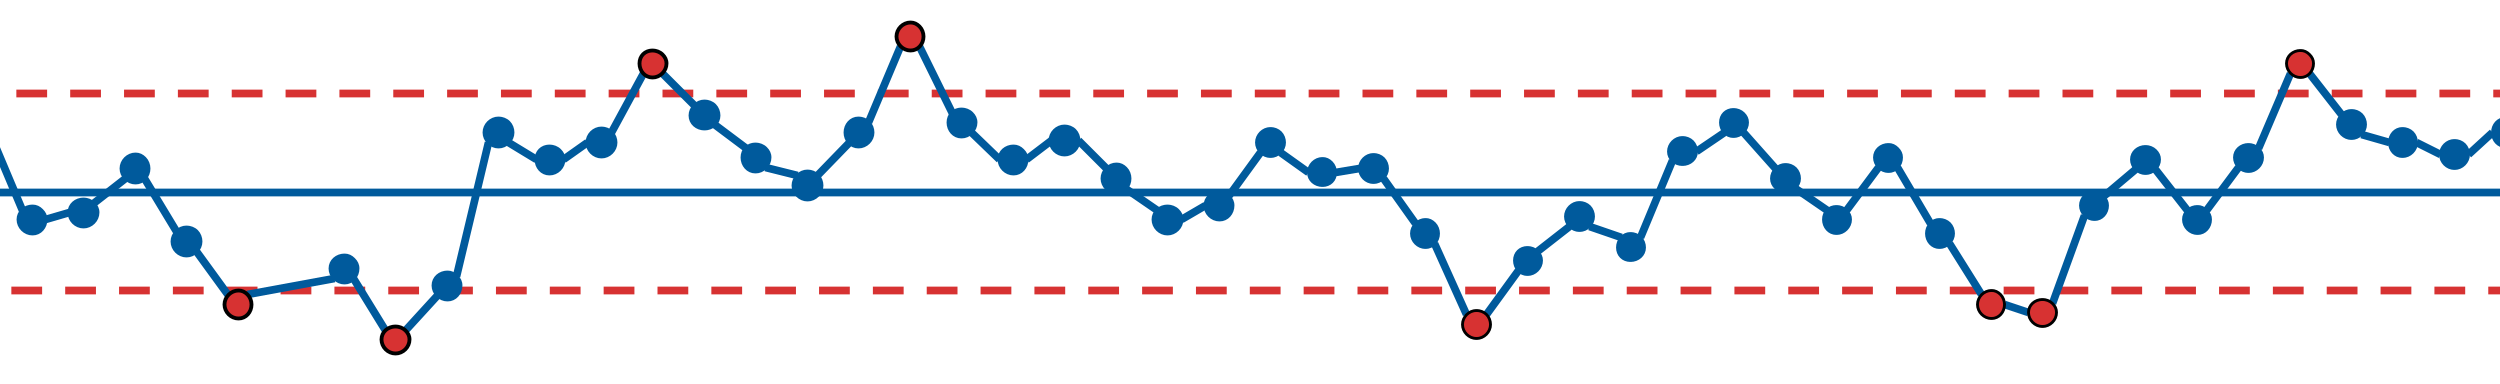
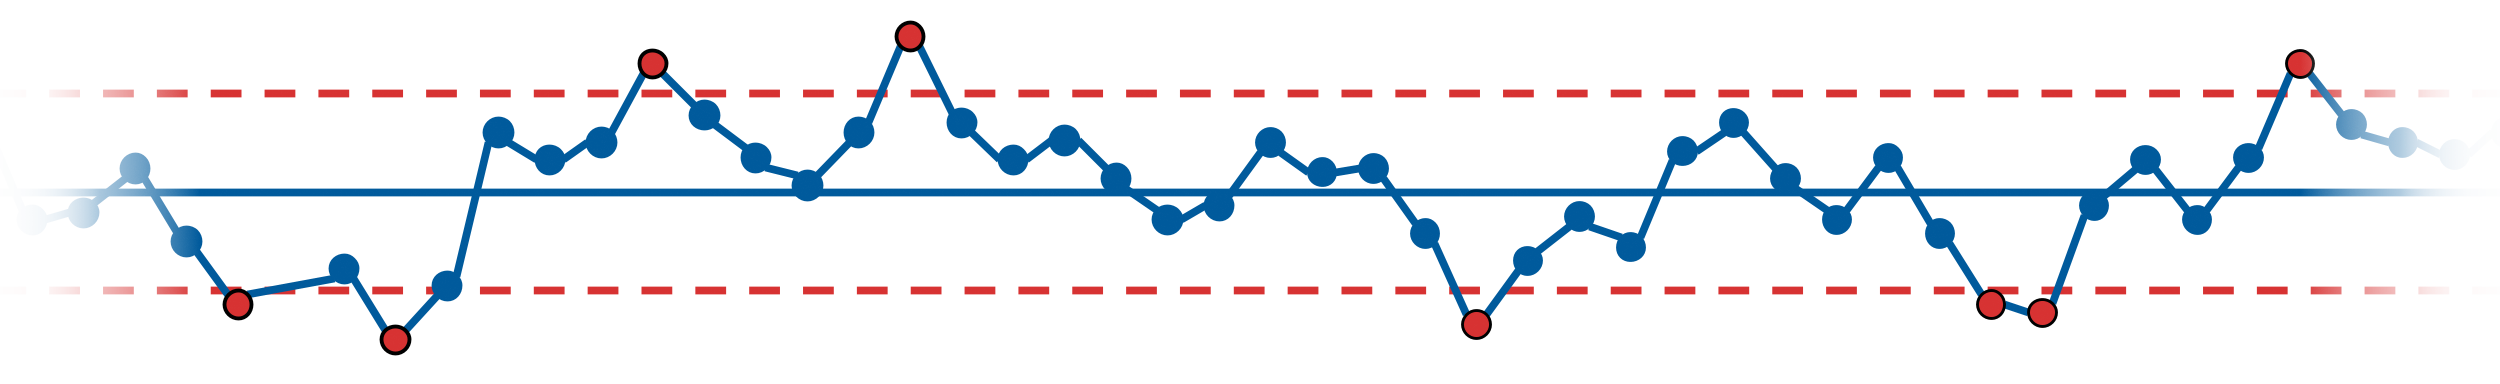
Update site content

diff --git a/public/python-lib/index.html b/public/python-lib/index.html
@@ -37,19 +37,7 @@
     <p>
       <em>process_improvement.py</em> is a Python library that serves as a free alternative to paid tools like Excel, Minitab, and JMP. Assuming a rudimentary knowledge of the Python programming language, the library simplifies the task of performing calculations and generating the figures that are essential for understanding variation, reducing costs, and improving quality.
     </p>
-    <p>
-      Although the primary tool of the library is the XmR chart, the most useful type of process behavior chart, it also generates capability histograms, combo charts, trended X charts, limit charts, and a grid of X charts providing a system-level view of a process called network analysis.
-    </p>
-    <div class="book-cta">
-      <a href="https://github.com/jimlehner/process-improvement/tree/main"
-         class="btn btn-primary"
-         target="_blank"
-         rel="noopener">
-         Click here to learn more!
-      </a>
-    </div>
-  </div>
-  <div class="carousel python-carousel"
+    <div class="carousel python-carousel"
      data-images="/images/python-lib/combo_chart.png,
                   /images/python-lib/capability_histogram.png,
                   /images/python-lib/limit_chart.png,
@@ -67,6 +55,39 @@ alt="Python carousel"></p>
     <button class="next-btn">→</button>
   </div>
 </div>
+    <p>
+      Although the primary tool of the library is the XmR chart, the most useful type of process behavior chart, it also generates capability histograms, combo charts, trended X charts, limit charts, and a grid of X charts providing a system-level view of a process called network analysis.   
+    </p>
+    <div class="book-cta">
+      <a href="https://github.com/jimlehner/process-improvement/tree/main"
+         class="btn btn-primary"
+         target="_blank"
+         rel="noopener">
+         Click here to learn more!
+      </a>
+    </div>
+  </div>
+  <!-- <div class="carousel python-carousel"
+     data-images="/images/python-lib/combo_chart.png,
+                  /images/python-lib/capability_histogram.png,
+                  /images/python-lib/limit_chart.png,
+                  /images/python-lib/limit_chart_NA.png,
+                  /images/python-lib/network_analysis.png,
+                  /images/python-lib/taguchi_loss_function.png,
+                  /images/python-lib/trended_x_chart.png,
+                  /images/python-lib/xmr_chart.png,
+                  /images/python-lib/xmr_comparison.png">
+
+  <img class="carousel-image"
+       src="/images/python-lib/combo_chart.png"
+       alt="Python carousel">
+
+  <div class="carousel-controls">
+    <button class="prev-btn">←</button>
+    <button class="next-btn">→</button>
+  </div>
+
+</div> -->
 </div>
         </div>
     </article>

diff --git a/assets/sass/_layout.scss b/assets/sass/_layout.scss
@@ -3,8 +3,8 @@
    ========================= */
 
 .container {
-  width: 90%;
-  max-width: 1300px;
+  width: 100%;
+  max-width: 1500px;
   margin: 0 auto;
 }
 
@@ -13,19 +13,20 @@
    ========================= */
 
 .navbar {
+  max-width: none;
+  width: 100%;
   border-bottom: 1px solid var(--border);
-  padding: 1rem 0;
   background: var(--background);
 }
 
 .nav-container {
-  width: 95%;
-  max-width: 1500px;
+  width: 100%;
   margin: 0 auto;
 
   display: flex;
   justify-content: space-between;
   align-items: center;
+  padding: 1rem 2rem;
 }
 
 .logo {

diff --git a/assets/sass/pages/_bqi.scss b/assets/sass/pages/_bqi.scss
@@ -1,6 +1,8 @@
 .bqi-layout {
   display: flex;
-  gap: 2rem;
+  gap: 1rem;
+  flex-wrap: nowrap;
+  align-items: flex-start;
 }
 
 .bqi-text {
@@ -8,7 +10,7 @@
 }
 
 .bqi-carousel {
-  width: 700px;
+  width: 665px;
   flex-shrink: 0;
   margin: 0 auto;
 }

diff --git a/assets/sass/pages/_home.scss b/assets/sass/pages/_home.scss
@@ -1,4 +1,8 @@
 .hero {
+  min-height: 75vh;
+  display: flex;
+  flex-direction: column;
+  justify-content: center;
   padding: 1rem 0;
   text-align: center;
 }

diff --git a/assets/sass/pages/_python.scss b/assets/sass/pages/_python.scss
@@ -9,8 +9,8 @@
 
 .python-carousel img {
   width: 100%;
-  height: 290px;
-  object-fit: cover;
+  height: 400px;
+  object-fit: contain;
   border-radius: 8px;
 }
 

diff --git a/assets/sass/_base.scss b/assets/sass/_base.scss
@@ -4,10 +4,12 @@
 
 html, body {
   height: 100%;
+  margin: 0;
 }
 
 body {
   min-height: 100vh;
+  display: flex;
   margin: 0;
   font-family: system-ui, sans-serif;
   color: var(--text);

diff --git a/public/sass/main.min.css b/public/sass/main.min.css
@@ -1,1 +1,1 @@
-:root{--background:#ffffff;--text:#1f2937;--text-muted:#6b7280;--primary:#005a9c;--primary-hover:#00467a;--secondary:#0f766e;--secondary-hover:#115e59;--accent:#d97706;--border:#e5e7eb}*{box-sizing:border-box}html,body{height:100%}body{min-height:100vh;margin:0;font-family:system-ui,sans-serif;color:var(--text);background:var(--background);line-height:1.6;background-image:linear-gradient(to right,rgba(0,90,156,5%) 1px,transparent 1px),linear-gradient(to bottom,rgba(0,90,156,5%) 1px,transparent 1px);background-size:40px 40px}h1{margin-bottom:.1em}h2{margin-top:-1rem;margin-bottom:.5rem}.container{width:90%;max-width:1300px;margin:0 auto}.navbar{border-bottom:1px solid var(--border);padding:1rem 0;background:var(--background)}.nav-container{width:95%;max-width:1500px;margin:0 auto;display:flex;justify-content:space-between;align-items:center}.logo{font-weight:700;text-decoration:none;color:var(--primary);font-size:1.5rem}.nav-links{list-style:none;display:flex;gap:1rem;margin:0;padding:0;font-size:1.2rem}.nav-links a{text-decoration:none;color:var(--text)}.nav-links a:hover{color:var(--primary)}nav ul{list-style:none;margin:0;padding:0;display:flex;gap:1rem}nav li{display:inline}.footer{border-top:1px solid var(--border);padding:.05rem 0;margin-top:auto;text-align:center;color:var(--text-muted);font-size:.9rem;background:var(--background);position:relative;z-index:10}.btn{padding:.9rem 1.4rem;text-decoration:none;border-radius:8px;font-weight:600}.btn-primary{background:var(--primary);color:#fff}.btn-primary:hover{background:var(--primary-hover)}.btn-secondary{border:2px solid var(--primary);color:var(--primary)}.btn-outline{display:inline-block;padding:.5rem 1.2rem;border:2px solid var(--primary);color:var(--primary);border-radius:6px;transition:all .2s ease}.btn-outline:hover{background:var(--primary);color:#fff}.carousel-controls button{padding:.4rem 5rem;border:#000;background:#eee;cursor:pointer;border-radius:4px}.carousel-controls{display:flex;justify-content:center;gap:1rem;margin-top:.75rem;border:#000}.carousel-controls button:hover{background:#ddd}.carousel-image-container{position:relative}.carousel-caption{position:absolute;bottom:0;left:0;right:0;background:rgba(0,0,0,.75);color:#fff;padding:.75rem;text-align:center;opacity:0;transition:opacity .3s ease}.carousel-image-container:hover .carousel-caption{opacity:1}.social-icons{display:flex;justify-content:center;gap:1.2rem;margin-top:.8rem}.social-icons a{font-size:2.6rem;color:var(--primary);text-decoration:none;transition:color .2s ease}.social-icons a:hover{color:#07f}.about-page .social-icons{justify-content:flex-start}.hero{padding:1rem 0;text-align:center}.hero h1{color:var(--primary)}.hero-image{width:250px;height:250px;object-fit:cover;border-radius:50%;display:block;margin:0 auto 1rem}.hero-buttons{display:flex;justify-content:center;gap:1rem;flex-wrap:wrap}.subtitle{max-width:700px;margin:0 auto 2rem;color:var(--text-muted)}body{min-height:100vh;display:flex;flex-direction:column}.page-wrapper{flex:1}.hero-image-wrapper{position:relative;width:100vw;height:250px;margin:0 auto 1rem}.hero-bg{position:absolute;inset:0;width:100%;height:100%;object-fit:contain;object-position:center;z-index:1;opacity:.75}.hero-image{position:relative;z-index:2;width:250px;height:250px;border-radius:50%;object-fit:cover}.book-hero{display:flex;align-items:center;justify-content:space-between;gap:3rem;margin:3rem 0}.book-layout{display:grid;grid-template-columns:1fr 320px;gap:3rem;margin-top:2rem}.book-cover{max-width:300px;width:100%;height:auto}.book-body p{margin-top:0}@media(max-width:768px){.book-layout{display:flex;flex-direction:column;align-items:center}.book-image{order:-1;display:flex;justify-content:center;width:100%}.book-cover{max-width:280px;display:block;margin:0 auto}}.book-cta{margin-top:1.75rem;margin-bottom:1.5rem}.about-layout{display:flex;gap:2rem}.circle-image{width:350px;height:350px;border-radius:50%;object-fit:cover;float:left}.about-image{flex:0 0 350px;display:flex;justify-content:center}.about-text{flex:1}.improvements-image{width:100%;max-width:700px;height:auto;display:block;margin:0 auto;border-radius:8px}html,body{height:100%}@media(max-width:768px){.about-layout{flex-direction:column;align-items:center}.about-image{order:-1;width:100%;display:flex;justify-content:center}.circle-image{float:none;display:block;margin:0 auto 1rem;margin-bottom:-2rem}.about-text{text-align:left;width:100%}}.python-layout{display:flex;gap:2rem}.python-text{flex:1}.python-carousel img{width:100%;height:290px;object-fit:cover;border-radius:8px}.carousel-controls{display:flex;justify-content:center;gap:1rem}@media(max-width:768px){.python-layout{flex-direction:column;align-items:center}.python-text{width:100%}.python-carousel{order:-1;width:100%;display:flex;flex-direction:column;align-items:center}.python-carousel img{width:100%;max-width:600px}}.bqi-layout{display:flex;gap:2rem}.bqi-text{flex:1}.bqi-carousel{width:700px;flex-shrink:0;margin:0 auto}.bqi-carousel img{width:100%;object-fit:contain;border-radius:8px}@media(max-width:768px){.bqi-layout{flex-direction:column;align-items:center}.bqi-text{width:100%}.bqi-carousel{order:-1;width:100%;display:flex;flex-direction:column;align-items:center;margin-top:1rem}.bqi-carousel img{width:100%;max-width:600px}}
+:root{--background:#ffffff;--text:#1f2937;--text-muted:#6b7280;--primary:#005a9c;--primary-hover:#00467a;--secondary:#0f766e;--secondary-hover:#115e59;--accent:#d97706;--border:#e5e7eb}*{box-sizing:border-box}html,body{height:100%;margin:0}body{min-height:100vh;display:flex;margin:0;font-family:system-ui,sans-serif;color:var(--text);background:var(--background);line-height:1.6;background-image:linear-gradient(to right,rgba(0,90,156,5%) 1px,transparent 1px),linear-gradient(to bottom,rgba(0,90,156,5%) 1px,transparent 1px);background-size:40px 40px}h1{margin-bottom:.1em}h2{margin-top:-1rem;margin-bottom:.5rem}.container{width:100%;max-width:1500px;margin:0 auto}.navbar{max-width:none;width:100%;border-bottom:1px solid var(--border);background:var(--background)}.nav-container{width:100%;margin:0 auto;display:flex;justify-content:space-between;align-items:center;padding:1rem 2rem}.logo{font-weight:700;text-decoration:none;color:var(--primary);font-size:1.5rem}.nav-links{list-style:none;display:flex;gap:1rem;margin:0;padding:0;font-size:1.2rem}.nav-links a{text-decoration:none;color:var(--text)}.nav-links a:hover{color:var(--primary)}nav ul{list-style:none;margin:0;padding:0;display:flex;gap:1rem}nav li{display:inline}.footer{border-top:1px solid var(--border);padding:.05rem 0;margin-top:auto;text-align:center;color:var(--text-muted);font-size:.9rem;background:var(--background);position:relative;z-index:10}.btn{padding:.9rem 1.4rem;text-decoration:none;border-radius:8px;font-weight:600}.btn-primary{background:var(--primary);color:#fff}.btn-primary:hover{background:var(--primary-hover)}.btn-secondary{border:2px solid var(--primary);color:var(--primary)}.btn-outline{display:inline-block;padding:.5rem 1.2rem;border:2px solid var(--primary);color:var(--primary);border-radius:6px;transition:all .2s ease}.btn-outline:hover{background:var(--primary);color:#fff}.carousel-controls button{padding:.4rem 5rem;border:#000;background:#eee;cursor:pointer;border-radius:4px;border:1px solid #000}.carousel-controls{display:flex;justify-content:center;gap:1rem;margin-top:.75rem;border:#000}.carousel-controls button:hover{background:#ddd}.carousel-image-container{position:relative}.carousel-caption{position:absolute;bottom:0;left:0;right:0;background:rgba(0,0,0,.75);color:#fff;padding:.75rem;text-align:center;opacity:0;transition:opacity .3s ease}.carousel-image-container:hover .carousel-caption{opacity:1}.social-icons{display:flex;justify-content:center;gap:1.2rem;margin-top:.8rem}.social-icons a{font-size:2.6rem;color:var(--primary);text-decoration:none;transition:color .2s ease}.social-icons a:hover{color:#07f}.about-page .social-icons{justify-content:flex-start}.hero{min-height:75vh;display:flex;flex-direction:column;justify-content:center;padding:1rem 0;text-align:center}.hero h1{color:var(--primary)}.hero-image{width:250px;height:250px;object-fit:cover;border-radius:50%;display:block;margin:0 auto 1rem}.hero-buttons{display:flex;justify-content:center;gap:1rem;flex-wrap:wrap}.subtitle{max-width:700px;margin:0 auto 2rem;color:var(--text-muted)}body{min-height:100vh;display:flex;flex-direction:column}.page-wrapper{flex:1}.hero-image-wrapper{position:relative;width:100vw;height:250px;margin:0 auto 1rem}.hero-bg{position:absolute;inset:0;width:100%;height:100%;object-fit:contain;object-position:center;z-index:1;opacity:.75}.hero-image{position:relative;z-index:2;width:250px;height:250px;border-radius:50%;object-fit:cover}.book-hero{display:flex;align-items:center;justify-content:space-between;gap:3rem;margin:3rem 0}.book-layout{display:grid;grid-template-columns:1fr 320px;gap:3rem;margin-top:2rem}.book-cover{max-width:300px;width:100%;height:auto}.book-body p{margin-top:0}@media(max-width:768px){.book-layout{display:flex;flex-direction:column;align-items:center}.book-image{order:-1;display:flex;justify-content:center;width:100%}.book-cover{max-width:280px;display:block;margin:0 auto}}.book-cta{margin-top:1.75rem;margin-bottom:1.5rem}.about-layout{display:flex;gap:2rem}.circle-image{width:350px;height:350px;border-radius:50%;object-fit:cover;float:left}.about-image{flex:0 0 350px;display:flex;justify-content:center}.about-text{flex:1}.improvements-image{width:100%;max-width:700px;height:auto;display:block;margin:0 auto;border-radius:8px}html,body{height:100%}@media(max-width:768px){.about-layout{flex-direction:column;align-items:center}.about-image{order:-1;width:100%;display:flex;justify-content:center}.circle-image{float:none;display:block;margin:0 auto 1rem;margin-bottom:-2rem}.about-text{text-align:left;width:100%}}.python-layout{display:flex;gap:2rem}.python-text{flex:1}.python-carousel img{width:100%;height:400px;object-fit:contain;border-radius:8px}.carousel-controls{display:flex;justify-content:center;gap:1rem}@media(max-width:768px){.python-layout{flex-direction:column;align-items:center}.python-text{width:100%}.python-carousel{order:-1;width:100%;display:flex;flex-direction:column;align-items:center}.python-carousel img{width:100%;max-width:600px}}.bqi-layout{display:flex;gap:1rem;flex-wrap:nowrap;align-items:flex-start}.bqi-text{flex:1}.bqi-carousel{width:665px;flex-shrink:0;margin:0 auto}.bqi-carousel img{width:100%;object-fit:contain;border-radius:8px}@media(max-width:768px){.bqi-layout{flex-direction:column;align-items:center}.bqi-text{width:100%}.bqi-carousel{order:-1;width:100%;display:flex;flex-direction:column;align-items:center;margin-top:1rem}.bqi-carousel img{width:100%;max-width:600px}}

diff --git a/assets/sass/_components.scss b/assets/sass/_components.scss
@@ -39,6 +39,7 @@
   background: #eee;
   cursor: pointer;
   border-radius: 4px;
+  border: 1px solid black;
 }
 
 .carousel-controls {

diff --git a/content/python-lib.md b/content/python-lib.md
@@ -13,20 +13,7 @@ title: Python
     <p>
       <em>process_improvement.py</em> is a Python library that serves as a free alternative to paid tools like Excel, Minitab, and JMP. Assuming a rudimentary knowledge of the Python programming language, the library simplifies the task of performing calculations and generating the figures that are essential for understanding variation, reducing costs, and improving quality.
     </p>
-    <p>
-      Although the primary tool of the library is the XmR chart, the most useful type of process behavior chart, it also generates capability histograms, combo charts, trended X charts, limit charts, and a grid of X charts providing a system-level view of a process called network analysis.
-    </p>
-    <div class="book-cta">
-      <a href="https://github.com/jimlehner/process-improvement/tree/main"
-         class="btn btn-primary"
-         target="_blank"
-         rel="noopener">
-         Click here to learn more!
-      </a>
-    </div>
-  </div>
-  
-  <div class="carousel python-carousel"
+    <div class="carousel python-carousel"
      data-images="/images/python-lib/combo_chart.png,
                   /images/python-lib/capability_histogram.png,
                   /images/python-lib/limit_chart.png,
@@ -47,5 +34,39 @@ title: Python
   </div>
 
 </div>
+    <p>
+      Although the primary tool of the library is the XmR chart, the most useful type of process behavior chart, it also generates capability histograms, combo charts, trended X charts, limit charts, and a grid of X charts providing a system-level view of a process called network analysis.   
+    </p>
+    <div class="book-cta">
+      <a href="https://github.com/jimlehner/process-improvement/tree/main"
+         class="btn btn-primary"
+         target="_blank"
+         rel="noopener">
+         Click here to learn more!
+      </a>
+    </div>
+  </div>
+  
+  <!-- <div class="carousel python-carousel"
+     data-images="/images/python-lib/combo_chart.png,
+                  /images/python-lib/capability_histogram.png,
+                  /images/python-lib/limit_chart.png,
+                  /images/python-lib/limit_chart_NA.png,
+                  /images/python-lib/network_analysis.png,
+                  /images/python-lib/taguchi_loss_function.png,
+                  /images/python-lib/trended_x_chart.png,
+                  /images/python-lib/xmr_chart.png,
+                  /images/python-lib/xmr_comparison.png">
+
+  <img class="carousel-image"
+       src="/images/python-lib/combo_chart.png"
+       alt="Python carousel">
+
+  <div class="carousel-controls">
+    <button class="prev-btn">←</button>
+    <button class="next-btn">→</button>
+  </div>
+
+</div> -->
 
 </div>